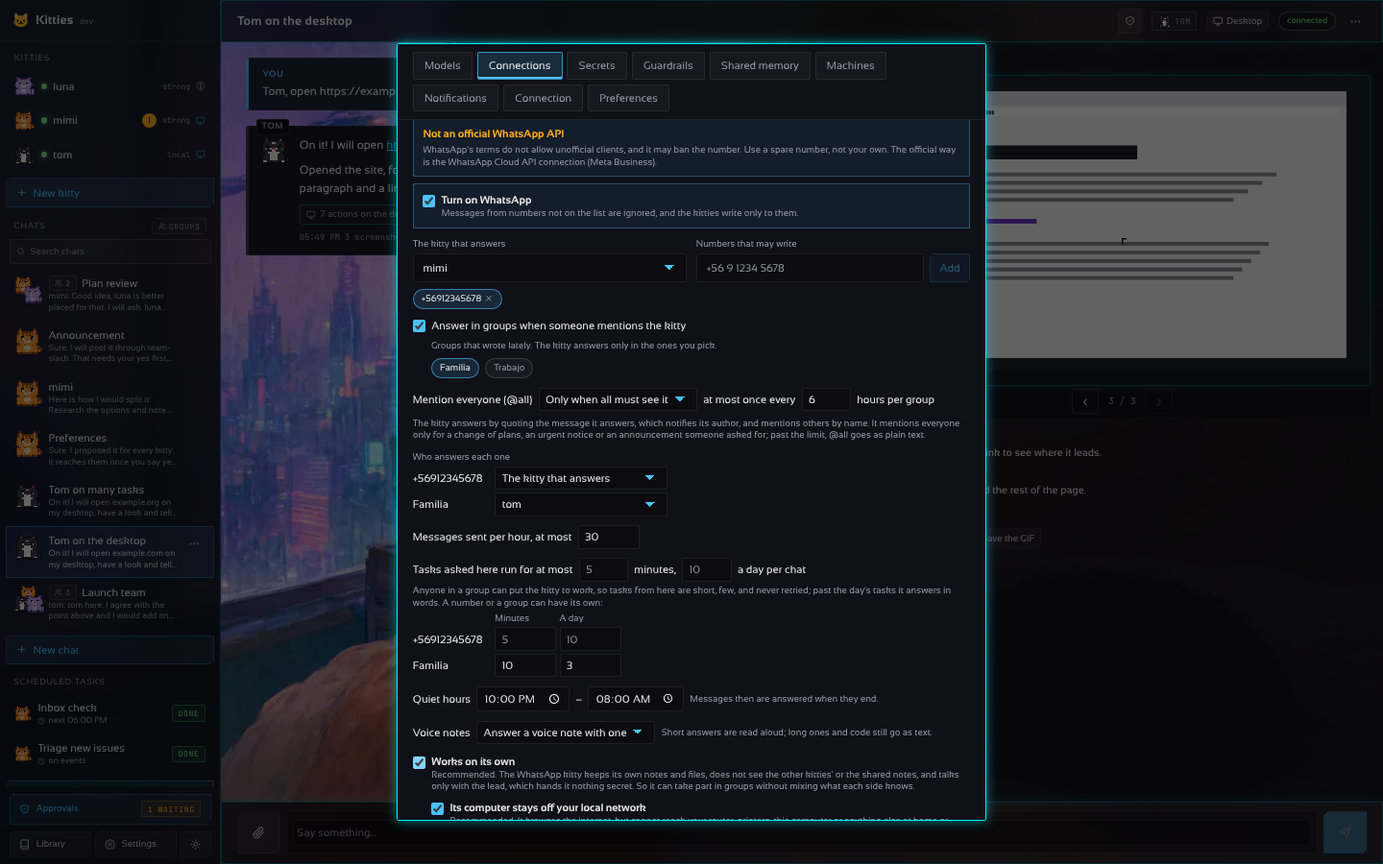
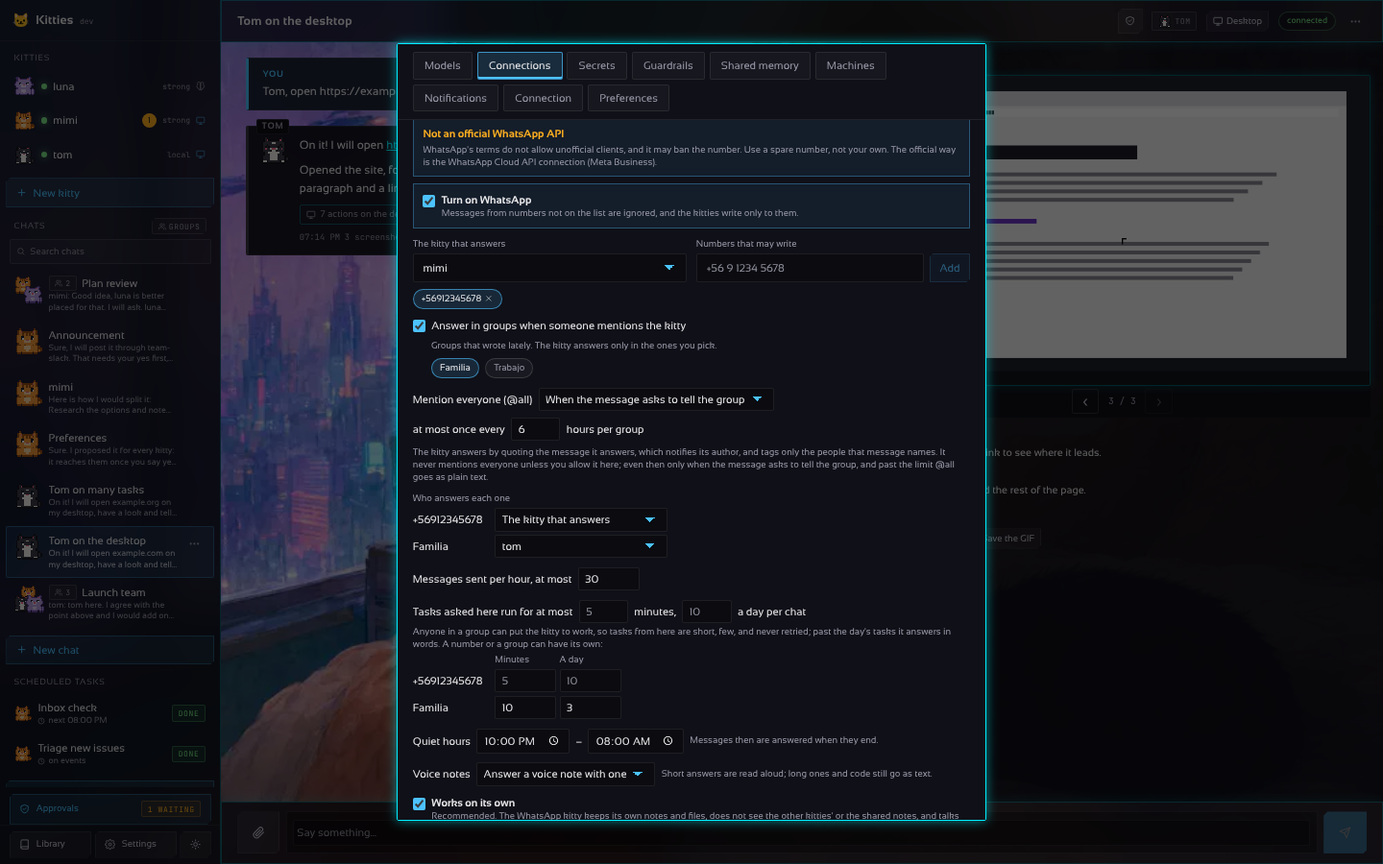
feat(whatsapp): never mention everyone in a group unless Settings allows it
mention_all is off by default; "asked" lets @all through only when the
message asks to tell the group. The first version's "needed" reads as off.

Claude-Session: https://claude.ai/code/session_017Z7sUbBDLHT9VRhdSe2XVy

diff --git a/site/es/index.html b/site/es/index.html
@@ -62,8 +62,8 @@ claude mcp add --transport http --scope user kitties http://&lt;gateway&gt;:7488
   --header "Authorization: Bearer &lt;MCP token&gt;"</code></pre></div></section>
 <section id="lead" class="wrap"><h2>Un kitty dirige a los demás</h2><p class="lead">Haz principal a un kitty y pasa a ser tu contacto principal: le pides algo, reparte el trabajo entre los kitties más indicados para cada parte, junta sus respuestas (varios kitties a la vez, mostrando quién trabaja y quién espera) y te entrega un solo reporte; resume los reportes con un clic o cada día a la hora que elijas; para una tarea larga puede darle a un kitty más rondas, tokens o tiempo, solo para esa tarea o de forma permanente, con topes y, si quieres, solo con tu aprobación. Lo que los demás tienen que contarte (metas cumplidas o trabadas, ayuda que necesitan, una acción que espera tu sí, el resumen diario) te llega a través de él, en su hilo Reportes (un reporte por chat, sin repetir la misma noticia), que tiene su propio lugar en la barra lateral después de los chats, y a su nombre. Los demás le hacen caso primero y le consultan sus dudas; él les responde, y a ti te pregunta solo lo que no puede decidir, para luego pasarles tu respuesta. Como un elefante con peces dorados: él guarda el panorama completo y cada kitty recibe un encargo que se entiende solo. Los chats nuevos, WhatsApp y <code>kitties chat</code> van a él si no eliges otro kitty. Un clic en el cajón del kitty, <code>lead: true</code> en el YAML, <code>kitties lead &lt;nombre&gt;</code>, o Claude por MCP.</p>
 <div class="duo"><figure><img src="../img/lead.webp" alt="La pestaña Equipo del kitty principal: Resumir reportes, Abrir reportes, Dejar de ser principal, los encargos por día y por kitty" loading="lazy" width="1440" height="900"><figcaption>El principal, en su cajón</figcaption></figure><figure><img src="../img/lead-reports.webp" alt="El hilo Reportes del principal: mimi terminó una meta" loading="lazy" width="1440" height="900"><figcaption>Las novedades de los demás, en su hilo Reportes</figcaption></figure></div></section>
-<section id="whatsapp" class="wrap"><h2>Conversa con tus kitties por WhatsApp</h2><p class="lead">Dales a los kitties un número propio: vincula un teléfono de repuesto como en WhatsApp Web escaneando un código QR en Ajustes. Las personas que pongas en la lista conversan con un kitty desde WhatsApp, y los kitties les responden, "escribiendo…" mientras piensan. Responden en los grupos que elijas cuando los nombran, leen fotos, documentos, stickers y ubicaciones, escuchan notas de voz y responden con las suyas (texto a voz, cada kitty con su propia voz, en todas las respuestas o solo a las notas de voz), devuelven los archivos que hacen y reaccionan con emojis. Cada número o grupo puede tener su propio kitty, con un límite por hora y un horario de silencio para cuidar el número; lo que el límite retiene queda sellado y listado en Ajustes, para reenviarlo cuando haya espacio. Viene desactivado, la lista parte vacía y la sesión queda sellada con la llave del vault. No es una API oficial y WhatsApp puede bloquear el número, así que la primera vez que lo activas una pantalla de bienvenida te pide aceptar ese riesgo; la vía oficial es la conexión WhatsApp Cloud API. Cada mensaje le llega al kitty con quién lo escribió (nombre y número) y, si es una respuesta, de quién es el mensaje que responde, así que las personas de un grupo nunca se confunden entre sí ni contigo; tú nombras a tus contactos en Ajustes, y mientras tanto el kitty usa el nombre que se pusieron en WhatsApp. El kitty de WhatsApp trabaja por su cuenta, como un principal junto al principal: sus propias notas (también sobre las personas y grupos con que habla, las únicas que usa ahí), sus propios archivos y su propio computador, para navegar por internet incluso en grupos (ahí con tareas cortas y pocas, ajustables por grupo, solo enlaces a páginas públicas y nunca tu red local), sin notas compartidas, sin chats ni trabajo con otros kitties, y solo habla con el principal, que no le pasa nada secreto; desde un grupo puede consultarle al principal, solo si tú lo apruebas, y la respuesta sale solo con un segundo sí (o siempre, en un grupo de confianza). Así puede participar en grupos sin mezclar lo que sabe cada lado. En un grupo responde citando el mensaje al que contesta, así a su autor le llega la notificación, y convierte <code>@Ana</code> en una mención real; a todos (<code>@todos</code>) los menciona solo cuando todos deben verlo, como máximo una vez cada pocas horas por grupo, o nunca si así lo eliges.</p>
-<div class="duo"><figure><img src="../img/whatsapp-welcome.webp" alt="La bienvenida de WhatsApp: no es una API oficial, un número de repuesto y una lista corta, la sesión sellada en el vault y el riesgo por aceptar" loading="lazy" width="1440" height="900"><figcaption>La primera vez: aceptar el riesgo</figcaption></figure><figure><img src="../img/whatsapp.webp" alt="Ajustes, WhatsApp conectado: notas de voz respondidas con notas de voz, el kitty de WhatsApp trabajando por su cuenta y los mensajes retenidos por el límite por hora" loading="lazy" width="1440" height="900"><figcaption>Notas de voz, un kitty por su cuenta y los mensajes que retuvo el límite por hora</figcaption></figure></div><div class="duo"><figure><img src="../img/whatsapp-senders.webp" alt="Un chat de grupo de WhatsApp: cada mensaje bajo el nombre y número de quien lo escribió, y una respuesta que muestra de quién es el mensaje que responde" loading="lazy" width="1440" height="900"><figcaption>Quién escribió cada mensaje, y a quién responde</figcaption></figure><figure><img src="../img/whatsapp-contacts.webp" alt="Ajustes, contactos de WhatsApp: el nombre con que el kitty lee a cada persona, con su número y el nombre que se pusieron" loading="lazy" width="1440" height="900"><figcaption>Nombra a tus contactos</figcaption></figure></div><figure class="one"><img src="../img/whatsapp-mentions.webp" alt="Ajustes, WhatsApp: mencionar a todos en un grupo solo cuando todos deben verlo, como máximo una vez cada pocas horas" loading="lazy" width="1440" height="900"><figcaption>@todos solo cuando hace falta</figcaption></figure></section>
+<section id="whatsapp" class="wrap"><h2>Conversa con tus kitties por WhatsApp</h2><p class="lead">Dales a los kitties un número propio: vincula un teléfono de repuesto como en WhatsApp Web escaneando un código QR en Ajustes. Las personas que pongas en la lista conversan con un kitty desde WhatsApp, y los kitties les responden, "escribiendo…" mientras piensan. Responden en los grupos que elijas cuando los nombran, leen fotos, documentos, stickers y ubicaciones, escuchan notas de voz y responden con las suyas (texto a voz, cada kitty con su propia voz, en todas las respuestas o solo a las notas de voz), devuelven los archivos que hacen y reaccionan con emojis. Cada número o grupo puede tener su propio kitty, con un límite por hora y un horario de silencio para cuidar el número; lo que el límite retiene queda sellado y listado en Ajustes, para reenviarlo cuando haya espacio. Viene desactivado, la lista parte vacía y la sesión queda sellada con la llave del vault. No es una API oficial y WhatsApp puede bloquear el número, así que la primera vez que lo activas una pantalla de bienvenida te pide aceptar ese riesgo; la vía oficial es la conexión WhatsApp Cloud API. Cada mensaje le llega al kitty con quién lo escribió (nombre y número) y, si es una respuesta, de quién es el mensaje que responde, así que las personas de un grupo nunca se confunden entre sí ni contigo; tú nombras a tus contactos en Ajustes, y mientras tanto el kitty usa el nombre que se pusieron en WhatsApp. El kitty de WhatsApp trabaja por su cuenta, como un principal junto al principal: sus propias notas (también sobre las personas y grupos con que habla, las únicas que usa ahí), sus propios archivos y su propio computador, para navegar por internet incluso en grupos (ahí con tareas cortas y pocas, ajustables por grupo, solo enlaces a páginas públicas y nunca tu red local), sin notas compartidas, sin chats ni trabajo con otros kitties, y solo habla con el principal, que no le pasa nada secreto; desde un grupo puede consultarle al principal, solo si tú lo apruebas, y la respuesta sale solo con un segundo sí (o siempre, en un grupo de confianza). Así puede participar en grupos sin mezclar lo que sabe cada lado. En un grupo responde citando el mensaje al que contesta, así a su autor le llega la notificación, y convierte <code>@Ana</code> en una mención real; solo etiqueta a quienes ese mensaje nombra, y nunca menciona a todos (<code>@todos</code>) salvo que lo permitas, y aun así solo cuando el mensaje pide avisar al grupo.</p>
+<div class="duo"><figure><img src="../img/whatsapp-welcome.webp" alt="La bienvenida de WhatsApp: no es una API oficial, un número de repuesto y una lista corta, la sesión sellada en el vault y el riesgo por aceptar" loading="lazy" width="1440" height="900"><figcaption>La primera vez: aceptar el riesgo</figcaption></figure><figure><img src="../img/whatsapp.webp" alt="Ajustes, WhatsApp conectado: notas de voz respondidas con notas de voz, el kitty de WhatsApp trabajando por su cuenta y los mensajes retenidos por el límite por hora" loading="lazy" width="1440" height="900"><figcaption>Notas de voz, un kitty por su cuenta y los mensajes que retuvo el límite por hora</figcaption></figure></div><div class="duo"><figure><img src="../img/whatsapp-senders.webp" alt="Un chat de grupo de WhatsApp: cada mensaje bajo el nombre y número de quien lo escribió, y una respuesta que muestra de quién es el mensaje que responde" loading="lazy" width="1440" height="900"><figcaption>Quién escribió cada mensaje, y a quién responde</figcaption></figure><figure><img src="../img/whatsapp-contacts.webp" alt="Ajustes, contactos de WhatsApp: el nombre con que el kitty lee a cada persona, con su número y el nombre que se pusieron" loading="lazy" width="1440" height="900"><figcaption>Nombra a tus contactos</figcaption></figure></div><figure class="one"><img src="../img/whatsapp-mentions.webp" alt="Ajustes, WhatsApp: mencionar a todos en un grupo nunca por defecto, o cuando el mensaje pide avisar al grupo" loading="lazy" width="1440" height="900"><figcaption>@todos apagado por defecto</figcaption></figure></section>
 <section id="guardrails" class="wrap"><h2>Protecciones cuando un kitty responde a otros</h2><p class="lead">Un kitty que conversa con tus contactos y grupos de WhatsApp, o en un chat que marques como público, queda protegido por defecto. Ahí no tiene escritorio, archivos, secretos guardados, notas sobre ti ni otros kitties, solo las conexiones que elijas. Todo lo que dice se revisa antes de salir: se quitan los secretos que Kitties conoce (claves, tokens, la bóveda), todo lo que parece una credencial, las rutas y direcciones internas y, salvo que lo desactives, los datos personales que la otra persona no entregó. Lo que escriben otros llega al modelo como dato, nunca como instrucción; un mensaje que intenta que el kitty rompa sus reglas recibe un no breve, y cada chat tiene un límite de mensajes por hora. Tus propios números conservan el kitty completo, y Ajustes muestra lo que las protecciones quitaron o negaron, nunca el secreto.</p>
 <figure class="one"><img src="../img/guardrails.webp" alt="Ajustes, Protecciones: activas por defecto, datos personales quitados, intentos sin respuesta, mensajes por hora, las conexiones que puede usar un kitty expuesto, tus números y el registro" loading="lazy" width="1440" height="900"><figcaption>Ajustes → Protecciones</figcaption></figure></section>
 <section class="wrap how"><h2>Elige un alma. Elige un cerebro. Y listo.</h2><ol><li><span>1</span><h3>Alma</h3><p>Una personalidad en un pequeño YAML. Tú la moldeas.</p></li><li><span>2</span><h3>Cerebro</h3><p>OpenAI, Anthropic, Gemini, Ollama, Groq, OpenRouter, DeepSeek, Qwen, Mistral, Copilot o cualquier servidor compatible.</p></li><li><span>3</span><h3>Cuerpo</h3><p>Un contenedor Docker con escritorio sin pantalla, navegador y las herramientas habituales.</p></li></ol></section>

diff --git a/site/index.html b/site/index.html
@@ -63,8 +63,8 @@ claude mcp add --transport http --scope user kitties http://&lt;gateway&gt;:7488
   --header "Authorization: Bearer &lt;MCP token&gt;"</code></pre></div></section>
 <section id="lead" class="wrap"><h2>One kitty leads the others</h2><p class="lead">Make one kitty the lead and it becomes your main contact: you ask it, it splits the work among the kitties best placed for each piece, gathers their answers (several kitties at the same time, showing who works and who waits) and gives you one report; it sums the reports up with one click or every day at the hour you choose; for a long task it can give a kitty more rounds, tokens or time, for that task alone or for good, within caps and, if you want, only with your yes. What the others have to tell you (goals done or stuck, help they need, an action waiting for a yes, the daily summary) reaches you through it, in its Reports thread (one report per chat, not the same news twice), which has its own place in the sidebar after the chats, and in its name. The others follow it first and ask it their doubts; it answers them, and asks you only what it cannot decide, then passes your answer on. Like an elephant with goldfish: it keeps the whole picture, and each kitty gets a task that stands on its own. New chats, WhatsApp and <code>kitties chat</code> go to it unless you pick another kitty. One click in a kitty’s drawer, <code>lead: true</code> in the YAML, <code>kitties lead &lt;name&gt;</code>, or Claude through MCP.</p>
 <div class="duo"><figure><img src="img/lead.webp" alt="The lead kitty's Team tab: Summarize reports, Open reports, Stop leading, the hand-overs per day and per kitty" loading="lazy" width="1440" height="900"><figcaption>The lead, in its drawer</figcaption></figure><figure><img src="img/lead-reports.webp" alt="The lead's Reports thread: mimi finished a goal" loading="lazy" width="1440" height="900"><figcaption>The others' news, in its Reports thread</figcaption></figure></div></section>
-<section id="whatsapp" class="wrap"><h2>Talk to your kitties on WhatsApp</h2><p class="lead">Give the kitties a number of their own: link a spare phone as on WhatsApp Web by scanning a QR code in Settings. The people you put on the list chat with a kitty from WhatsApp, and the kitties write back to them, "typing…" while they think. They answer in the groups you pick when mentioned, read pictures, documents, stickers and locations, hear voice notes and answer with their own (text to speech, each kitty with its own voice, for every answer or only to voice notes), send back the files they make and react with emoji. Each number or group can have its own kitty, with an hourly limit and quiet hours to keep the number safe; what the limit holds back is kept sealed and listed in Settings, to resend when there is room. Off by default, the list starts empty and the session is sealed with the vault's key. It is not an official API and WhatsApp may ban the number, so the first time you turn it on a welcome screen asks you to accept that risk; the official way is the WhatsApp Cloud API connection. Each message reaches the kitty with who wrote it (name and number) and, for a reply, whose message it answers, so the people of a group are never taken for one another or for you; you name your contacts in Settings, and until then the kitty uses the name they gave themselves on WhatsApp. The WhatsApp kitty works on its own, as a principal beside the lead: its own notes (including notes about the people and groups it talks with, the only ones it uses there), its own files and its own computer, to browse the internet even in groups (short and few tasks there, set per group, only links to public pages, and never your local network), no shared notes, no chats or work with other kitties, and only the lead to talk to, which hands it nothing secret; from a group it may ask the lead, only once you say yes, and its answer goes out only after a second yes (or always, in a group you trust). So it can take part in groups without mixing what each side knows. In a group it answers by quoting the message it answers, so its author is notified, and turns <code>@Ana</code> into a real mention; it mentions everyone (<code>@all</code>) only when all must see it, at most once every few hours per group, or never if you say so.</p>
-<div class="duo"><figure><img src="img/whatsapp-welcome.webp" alt="The WhatsApp welcome: not an official API, a spare number and a short list, the session sealed in the vault, and the risk to accept" loading="lazy" width="1440" height="900"><figcaption>The first time: accept the risk</figcaption></figure><figure><img src="img/whatsapp.webp" alt="Settings, WhatsApp connected: voice notes answered with voice notes, the WhatsApp kitty working on its own and the messages held by the hourly limit" loading="lazy" width="1440" height="900"><figcaption>Voice notes, a kitty on its own and the messages the hourly limit held</figcaption></figure></div><div class="duo"><figure><img src="img/whatsapp-senders.webp" alt="A WhatsApp group chat: each message under the name and number of who wrote it, and a reply showing whose message it answers" loading="lazy" width="1440" height="900"><figcaption>Who wrote each message, and whose message a reply answers</figcaption></figure><figure><img src="img/whatsapp-contacts.webp" alt="Settings, WhatsApp contacts: the name the kitty reads each person by, with their number and the name they gave themselves" loading="lazy" width="1440" height="900"><figcaption>Name your contacts</figcaption></figure></div><figure class="one"><img src="img/whatsapp-mentions.webp" alt="Settings, WhatsApp: mention everyone in a group only when all must see it, at most once every few hours" loading="lazy" width="1440" height="900"><figcaption>@all only when it is needed</figcaption></figure></section>
+<section id="whatsapp" class="wrap"><h2>Talk to your kitties on WhatsApp</h2><p class="lead">Give the kitties a number of their own: link a spare phone as on WhatsApp Web by scanning a QR code in Settings. The people you put on the list chat with a kitty from WhatsApp, and the kitties write back to them, "typing…" while they think. They answer in the groups you pick when mentioned, read pictures, documents, stickers and locations, hear voice notes and answer with their own (text to speech, each kitty with its own voice, for every answer or only to voice notes), send back the files they make and react with emoji. Each number or group can have its own kitty, with an hourly limit and quiet hours to keep the number safe; what the limit holds back is kept sealed and listed in Settings, to resend when there is room. Off by default, the list starts empty and the session is sealed with the vault's key. It is not an official API and WhatsApp may ban the number, so the first time you turn it on a welcome screen asks you to accept that risk; the official way is the WhatsApp Cloud API connection. Each message reaches the kitty with who wrote it (name and number) and, for a reply, whose message it answers, so the people of a group are never taken for one another or for you; you name your contacts in Settings, and until then the kitty uses the name they gave themselves on WhatsApp. The WhatsApp kitty works on its own, as a principal beside the lead: its own notes (including notes about the people and groups it talks with, the only ones it uses there), its own files and its own computer, to browse the internet even in groups (short and few tasks there, set per group, only links to public pages, and never your local network), no shared notes, no chats or work with other kitties, and only the lead to talk to, which hands it nothing secret; from a group it may ask the lead, only once you say yes, and its answer goes out only after a second yes (or always, in a group you trust). So it can take part in groups without mixing what each side knows. In a group it answers by quoting the message it answers, so its author is notified, and turns <code>@Ana</code> into a real mention; it tags only the people that message names, and never mentions everyone (<code>@all</code>) unless you allow it, and even then only when the message asks to tell the group.</p>
+<div class="duo"><figure><img src="img/whatsapp-welcome.webp" alt="The WhatsApp welcome: not an official API, a spare number and a short list, the session sealed in the vault, and the risk to accept" loading="lazy" width="1440" height="900"><figcaption>The first time: accept the risk</figcaption></figure><figure><img src="img/whatsapp.webp" alt="Settings, WhatsApp connected: voice notes answered with voice notes, the WhatsApp kitty working on its own and the messages held by the hourly limit" loading="lazy" width="1440" height="900"><figcaption>Voice notes, a kitty on its own and the messages the hourly limit held</figcaption></figure></div><div class="duo"><figure><img src="img/whatsapp-senders.webp" alt="A WhatsApp group chat: each message under the name and number of who wrote it, and a reply showing whose message it answers" loading="lazy" width="1440" height="900"><figcaption>Who wrote each message, and whose message a reply answers</figcaption></figure><figure><img src="img/whatsapp-contacts.webp" alt="Settings, WhatsApp contacts: the name the kitty reads each person by, with their number and the name they gave themselves" loading="lazy" width="1440" height="900"><figcaption>Name your contacts</figcaption></figure></div><figure class="one"><img src="img/whatsapp-mentions.webp" alt="Settings, WhatsApp: mention everyone in a group never by default, or when the message asks to tell the group" loading="lazy" width="1440" height="900"><figcaption>@all off by default</figcaption></figure></section>
 <section id="guardrails" class="wrap"><h2>Guardrails when a kitty answers others</h2><p class="lead">A kitty that talks to your WhatsApp contacts and groups, or in a chat you mark public, is guarded by default. There it has no desktop, files, saved secrets, notes about you or other kitties, only the connections you pick. Everything it says is checked before it leaves: the secrets Kitties knows (keys, tokens, the vault), anything shaped like a credential, internal paths and addresses and, unless you turn it off, personal data the other side did not give are taken out. What others write reaches the model as data, never as instructions; a message that tries to make the kitty break its rules gets a short no, and each chat has a limit of messages per hour. Your own numbers keep the whole kitty, and Settings shows what the guardrails took out or refused, never the secret itself.</p>
 <figure class="one"><img src="img/guardrails.webp" alt="Settings, Guardrails: on by default, personal data taken out, attempts not answered, messages per hour, the connections an exposed kitty may use, your own numbers and the record" loading="lazy" width="1440" height="900"><figcaption>Settings → Guardrails</figcaption></figure></section>
 <section class="wrap how"><h2>Pick a soul. Pick a brain. Press go.</h2><ol><li><span>1</span><h3>Soul</h3><p>A personality in a small YAML file. Yours to shape.</p></li><li><span>2</span><h3>Brain</h3><p>OpenAI, Anthropic, Gemini, Ollama, Groq, OpenRouter, DeepSeek, Qwen, Mistral, Copilot or any compatible server.</p></li><li><span>3</span><h3>Body</h3><p>A Docker container with a headless desktop, browser and the usual tools.</p></li></ol></section>

diff --git a/desktop/frontend/src/i18n/pt/settings.ts b/desktop/frontend/src/i18n/pt/settings.ts
@@ -409,12 +409,9 @@ const dict: Dictionary = {
   "These were not sent: more than {limit} messages went in an hour. Resend one when there is room, or raise the limit above. The list is kept sealed, so a restart does not lose it.":
     "Não foram enviadas: saíram mais de {limit} mensagens em uma hora. Reenvie uma quando houver espaço, ou aumente o limite acima. A lista fica selada, então um reinício não a perde.",
   "Mention everyone (@all)": "Mencionar todos (@todos)",
-  "Only when all must see it": "Só quando todos precisam ver",
   "at most once every": "no máximo uma vez a cada",
   "hours per group": "horas por grupo",
   "Hours between two mentions of everyone": "Horas entre duas menções a todos",
-  "The kitty answers by quoting the message it answers, which notifies its author, and mentions others by name. It mentions everyone only for a change of plans, an urgent notice or an announcement someone asked for; past the limit, @all goes as plain text.":
-    "O kitty responde citando a mensagem que responde, o que notifica o autor, e menciona os outros pelo nome. Menciona todos só numa mudança de planos, num aviso urgente ou num anúncio que alguém pediu; passado o limite, @todos vai como texto normal.",
   "Its computer stays off your local network": "O computador dele fica fora da sua rede local",
   "Recommended. It browses the internet, but cannot reach your router, printers, this computer or anything else at home or work. Applies the next time its computer starts.":
     "Recomendado. Navega na internet, mas não alcança o seu roteador, impressoras, este computador nem mais nada de casa ou do trabalho. Vale a partir da próxima vez que o computador dele iniciar.",
@@ -433,6 +430,9 @@ const dict: Dictionary = {
   Minutes: "Minutos",
   "A day": "Por dia",
   "Tasks a day for {who}": "Tarefas por dia para {who}",
+  "When the message asks to tell the group": "Quando a mensagem pede para avisar o grupo",
+  "The kitty answers by quoting the message it answers, which notifies its author, and tags only the people that message names. It never mentions everyone unless you allow it here; even then only when the message asks to tell the group, and past the limit @all goes as plain text.":
+    "O kitty responde citando a mensagem que responde, o que notifica o autor, e só marca quem essa mensagem nomeia. Nunca menciona todos a menos que você permita aqui; mesmo assim, só quando a mensagem pede para avisar o grupo, e passado o limite @todos vai como texto normal.",
   "Works on its own": "Trabalha por conta própria",
   "Recommended. The WhatsApp kitty keeps its own notes and files, does not see the other kitties' or the shared notes, and talks only with the lead, which hands it nothing secret. So it can take part in groups without mixing what each side knows.":
     "Recomendado. O kitty do WhatsApp guarda as suas próprias notas e arquivos, não vê os dos outros kitties nem as notas compartilhadas, e só fala com o principal, que não lhe passa nada secreto. Assim pode participar de grupos sem misturar o que cada lado sabe.",

diff --git a/desktop/frontend/src/i18n/es/settings.ts b/desktop/frontend/src/i18n/es/settings.ts
@@ -409,12 +409,9 @@ const dict: Dictionary = {
   "These were not sent: more than {limit} messages went in an hour. Resend one when there is room, or raise the limit above. The list is kept sealed, so a restart does not lose it.":
     "No se enviaron: salieron más de {limit} mensajes en una hora. Reenvía uno cuando haya espacio, o sube el límite arriba. La lista queda sellada, así que un reinicio no la pierde.",
   "Mention everyone (@all)": "Mencionar a todos (@todos)",
-  "Only when all must see it": "Solo cuando todos deben verlo",
   "at most once every": "como máximo una vez cada",
   "hours per group": "horas por grupo",
   "Hours between two mentions of everyone": "Horas entre dos menciones a todos",
-  "The kitty answers by quoting the message it answers, which notifies its author, and mentions others by name. It mentions everyone only for a change of plans, an urgent notice or an announcement someone asked for; past the limit, @all goes as plain text.":
-    "El kitty responde citando el mensaje al que contesta, lo que notifica a su autor, y menciona a otros por su nombre. Menciona a todos solo ante un cambio de planes, un aviso urgente o un anuncio que alguien pidió; pasado el límite, @todos va como texto normal.",
   "Its computer stays off your local network": "Su computador queda fuera de tu red local",
   "Recommended. It browses the internet, but cannot reach your router, printers, this computer or anything else at home or work. Applies the next time its computer starts.":
     "Recomendado. Navega por internet, pero no llega a tu router, impresoras, este computador ni nada más de tu casa u oficina. Se aplica la próxima vez que su computador arranque.",
@@ -433,6 +430,9 @@ const dict: Dictionary = {
   Minutes: "Minutos",
   "A day": "Al día",
   "Tasks a day for {who}": "Tareas al día para {who}",
+  "When the message asks to tell the group": "Cuando el mensaje pide avisar al grupo",
+  "The kitty answers by quoting the message it answers, which notifies its author, and tags only the people that message names. It never mentions everyone unless you allow it here; even then only when the message asks to tell the group, and past the limit @all goes as plain text.":
+    "El kitty responde citando el mensaje al que contesta, lo que notifica a su autor, y solo etiqueta a quienes ese mensaje nombra. Nunca menciona a todos salvo que lo permitas aquí; aun así, solo cuando el mensaje pide avisar al grupo, y pasado el límite @todos va como texto normal.",
   "Works on its own": "Trabaja por su cuenta",
   "Recommended. The WhatsApp kitty keeps its own notes and files, does not see the other kitties' or the shared notes, and talks only with the lead, which hands it nothing secret. So it can take part in groups without mixing what each side knows.":
     "Recomendado. El kitty de WhatsApp guarda sus propias notas y archivos, no ve los de los otros kitties ni las notas compartidas, y solo habla con el principal, que no le pasa nada secreto. Así puede participar en grupos sin mezclar lo que sabe cada lado.",

diff --git a/desktop/frontend/src/WhatsApp.tsx b/desktop/frontend/src/WhatsApp.tsx
@@ -37,7 +37,7 @@ function pick(s: WhatsAppStatus): WhatsAppSettings {
     quiet_to: s.quiet_to || "",
     voice: s.voice || "",
     share_with_team: !!s.share_with_team,
-    mention_all: s.mention_all === "off" ? "off" : "needed",
+    mention_all: s.mention_all === "asked" ? "asked" : "off",
     mention_all_hours: s.mention_all_hours || 0,
     local_network: !!s.local_network,
     task_minutes: s.task_minutes || 0,
@@ -59,7 +59,7 @@ function same(a: WhatsAppSettings, b: WhatsAppSettings): boolean {
     (a.quiet_to || "") === (b.quiet_to || "") &&
     (a.voice || "") === (b.voice || "") &&
     !!a.share_with_team === !!b.share_with_team &&
-    (a.mention_all || "needed") === (b.mention_all || "needed") &&
+    (a.mention_all || "off") === (b.mention_all || "off") &&
     (a.mention_all_hours || 0) === (b.mention_all_hours || 0) &&
     !!a.local_network === !!b.local_network &&
     (a.task_minutes || 0) === (b.task_minutes || 0) &&
@@ -329,7 +329,7 @@ export default function WhatsAppLink({ kitties }: { kitties: Kitty[] }) {
           {t("Mention everyone (@all)")}
           <select
             class="px-2 py-1 text-sm"
-            value={want.mention_all || "needed"}
+            value={want.mention_all || "off"}
             disabled={disabled}
             onChange={(e) =>
               setWant({
@@ -339,10 +339,10 @@ export default function WhatsAppLink({ kitties }: { kitties: Kitty[] }) {
               })
             }
           >
-            <option value="needed">{t("Only when all must see it")}</option>
             <option value="off">{t("Never")}</option>
+            <option value="asked">{t("When the message asks to tell the group")}</option>
           </select>
-          {want.mention_all !== "off" && (
+          {want.mention_all === "asked" && (
             <label class="flex items-center gap-2">
               {t("at most once every")}
               <input
@@ -369,7 +369,7 @@ export default function WhatsAppLink({ kitties }: { kitties: Kitty[] }) {
           )}
           <span class="block w-full text-xs text-[var(--t3)]">
             {t(
-              "The kitty answers by quoting the message it answers, which notifies its author, and mentions others by name. It mentions everyone only for a change of plans, an urgent notice or an announcement someone asked for; past the limit, @all goes as plain text.",
+              "The kitty answers by quoting the message it answers, which notifies its author, and tags only the people that message names. It never mentions everyone unless you allow it here; even then only when the message asks to tell the group, and past the limit @all goes as plain text.",
             )}
           </span>
         </div>

diff --git a/desktop/frontend/e2e/screens.spec.ts b/desktop/frontend/e2e/screens.spec.ts
@@ -3689,7 +3689,8 @@ test("Settings: WhatsApp welcomes with the risk, links with a QR code and keeps 
   await expect(box.getByTestId("whatsapp-group").first()).toHaveAttribute("aria-pressed", "true");
   // Everyone (@all) is mentioned only when all must see it, at most once every few hours.
   const mentionAll = box.getByTestId("whatsapp-mention-all");
-  await expect(mentionAll.locator("select")).toHaveValue("needed");
+  await expect(mentionAll.locator("select")).toHaveValue("off");
+  await mentionAll.locator("select").selectOption("asked");
   await mentionAll.getByLabel("Hours between two mentions of everyone").fill("6");
   await mentionAll.evaluate((el) => el.scrollIntoView({ block: "center" }));
   await shot(page, "86-whatsapp-mention-all");
@@ -3737,7 +3738,7 @@ test("Settings: WhatsApp welcomes with the risk, links with a QR code and keeps 
       quiet_to: "08:00",
       voice: "mirror",
       share_with_team: false,
-      mention_all: "needed",
+      mention_all: "asked",
       mention_all_hours: 6,
       local_network: false,
       task_minutes: 0,

diff --git a/desktop/frontend/src/api.ts b/desktop/frontend/src/api.ts
@@ -1668,10 +1668,10 @@ export type WhatsAppSettings = {
   // share_with_team lets the WhatsApp kitties work with the others; by default (false) they work
   // on their own: no shared notes or files, no chats or work with other kitties, only the lead.
   share_with_team?: boolean;
-  // mention_all is when a kitty may @mention every member of a group: "needed" (only when all
-  // of it must see a message, the default) or "off" (never); mention_all_hours is the least time
+  // mention_all is when a kitty may @mention every member of a group: "off" (never, the default)
+  // or "asked" (when the message it answers asks to tell the group); mention_all_hours is the least time
   // between two such mentions in a group (0: 4).
-  mention_all?: "needed" | "off";
+  mention_all?: "off" | "asked";
   mention_all_hours?: number;
   // local_network lets the computer of a kitty that works on its own reach the local network;
   // by default (false) it reaches only the internet.

diff --git a/internal/whatsapp/mention.go b/internal/whatsapp/mention.go
@@ -12,12 +12,13 @@ import (
 
 // The ways the kitties may @mention every member of a group (Settings.MentionAll).
 const (
-	// MentionAllNeeded (the default, also "") lets a kitty mention everyone only when all of the
-	// group must see a message (a change of plans, an urgent notice, an announcement someone asked
-	// for), at most once every MentionAllHours in each group.
-	MentionAllNeeded = "needed"
-	// MentionAllOff never mentions everyone: "@all" goes as plain text.
+	// MentionAllOff (the default, also "") never mentions everyone: "@all" goes as plain text.
+	// The "needed" of the first version reads as off too: the groups did not want it.
 	MentionAllOff = "off"
+	// MentionAllAsked lets a kitty mention everyone when the message it answers asks to tell the
+	// group (or it sends an announcement on its own), at most once every MentionAllHours in each
+	// group.
+	MentionAllAsked = "asked"
 )
 
 // DefaultMentionAllHours is the least time between two mentions of everyone in a group.
@@ -46,15 +47,15 @@ type etiquetter interface {
 	SetEtiquette(id, text string) error
 }
 
-// mentionAllMode is a MentionAll of Settings: MentionAllNeeded for "" too.
+// mentionAllMode is a MentionAll of Settings: MentionAllOff for "" too.
 func mentionAllMode(v string) (string, error) {
 	switch v = strings.ToLower(strings.TrimSpace(v)); v {
-	case "", MentionAllNeeded:
-		return MentionAllNeeded, nil
-	case MentionAllOff, "never":
+	case "", MentionAllOff, "never", "needed":
 		return MentionAllOff, nil
+	case MentionAllAsked:
+		return MentionAllAsked, nil
 	}
-	return "", fmt.Errorf("mention_all is %q (only when all of the group must see it) or %q (never)", MentionAllNeeded, MentionAllOff)
+	return "", fmt.Errorf("mention_all is %q (never, the default) or %q (when the message asks to tell the group)", MentionAllOff, MentionAllAsked)
 }
 
 // mentionAllHours is a MentionAllHours of Settings (0 is DefaultMentionAllHours).
@@ -239,7 +240,7 @@ func (b *Bridge) memberNamedLocked(group, name string) (string, bool) {
 // everyoneLocked reports whether a kitty may mention every member of group now, and takes the
 // turn when it may: never with MentionAll off, and once every MentionAllHours in a group.
 func (b *Bridge) everyoneLocked(group string) (bool, string) {
-	if b.set.MentionAll == MentionAllOff {
+	if b.set.MentionAll != MentionAllAsked {
 		return false, "mentioning everyone is off in Settings"
 	}
 	gap := time.Duration(b.mentionGapLocked()) * time.Hour
@@ -318,7 +319,7 @@ func (b *Bridge) etiquette(group string) string {
 		"Do not @mention anyone else either, unless the message you answer asks you to call, ask or tell a specific person; " +
 		"then write @ and their name (@Ana). Never @mention someone you only talk about, greet or quote: write their name without @. " +
 		"A tag of someone the message did not involve goes as their plain name. "
-	if mode == MentionAllOff {
+	if mode != MentionAllAsked {
 		return out + "Never mention everyone (@all): it is off here."
 	}
 	return out + "Write @all only when the message you answer asks you to tell the whole group (a change of plans, an urgent notice, " +

diff --git a/internal/whatsapp/mention_test.go b/internal/whatsapp/mention_test.go
@@ -75,7 +75,7 @@ func (r *rig) ask(t *testing.T, f *fakeClient, id, text string, n int) string {
 // A kitty's answer in a group @mentions the members it names (by name or number) so WhatsApp
 // notifies them, and everyone only when it writes @all and the limit lets it.
 func TestGroupMentions(t *testing.T) {
-	r, f := groupRig(t, Settings{})
+	r, f := groupRig(t, Settings{MentionAll: MentionAllAsked})
 	clock := time.Date(2026, 11, 9, 12, 0, 0, 0, time.UTC)
 	r.b.mu.Lock()
 	r.b.now = func() time.Time { return clock }
@@ -154,7 +154,7 @@ func TestGroupEtiquette(t *testing.T) {
 	ec := &etiquetteChats{fakeChats: r.chats, manners: map[string]string{}}
 	r.b.opt.Chats = ec
 	r.b.Start(context.Background())
-	if err := r.b.Apply(Settings{Enabled: true, Kitty: "mimi", Groups: true, AllowGroups: []string{familia}, MentionAllHours: 6}, true); err != nil {
+	if err := r.b.Apply(Settings{Enabled: true, Kitty: "mimi", Groups: true, AllowGroups: []string{familia}, MentionAll: MentionAllAsked, MentionAllHours: 6}, true); err != nil {
 		t.Fatal(err)
 	}
 	f := r.next(t)
@@ -177,16 +177,23 @@ func TestMentionSettings(t *testing.T) {
 	if err := r.b.Apply(Settings{Kitty: "mimi", MentionAllHours: MaxMentionAllHours + 1}, true); err == nil {
 		t.Fatal("a gap too long was taken")
 	}
-	if err := r.b.Apply(Settings{Kitty: "mimi", MentionAll: "Never"}, true); err != nil {
+	if err := r.b.Apply(Settings{Kitty: "mimi", MentionAll: "Asked"}, true); err != nil {
+		t.Fatal(err)
+	}
+	if st := r.b.Status(); st.MentionAll != MentionAllAsked {
+		t.Fatalf("mode = %q", st.MentionAll)
+	}
+	// The first version's "needed" reads as off.
+	if err := r.b.Apply(Settings{Kitty: "mimi", MentionAll: "needed"}, true); err != nil {
 		t.Fatal(err)
 	}
 	if st := r.b.Status(); st.MentionAll != MentionAllOff {
-		t.Fatalf("mode = %q", st.MentionAll)
+		t.Fatalf("legacy mode = %q", st.MentionAll)
 	}
 	if err := r.b.Apply(Settings{Kitty: "mimi"}, true); err != nil {
 		t.Fatal(err)
 	}
-	if st := r.b.Status(); st.MentionAll != MentionAllNeeded {
+	if st := r.b.Status(); st.MentionAll != MentionAllOff {
 		t.Fatalf("default mode = %q", st.MentionAll)
 	}
 }

diff --git a/internal/whatsapp/whatsapp.go b/internal/whatsapp/whatsapp.go
@@ -203,8 +203,8 @@ type Settings struct {
 	// default (false) they work on their own: no shared notes, no other kitty's files, no chats or
 	// work with other kitties, and only the lead to talk to (chat.Service.SetIndependent).
 	ShareWithTeam bool `json:"share_with_team,omitempty"`
-	// MentionAll is when a kitty may @mention every member of a group: MentionAllNeeded (only
-	// when all of it must see a message, the default) or MentionAllOff (never).
+	// MentionAll is when a kitty may @mention every member of a group: MentionAllOff (never, the
+	// default) or MentionAllAsked (when the message it answers asks to tell the group).
 	MentionAll string `json:"mention_all,omitempty"`
 	// MentionAllHours is the least time between two mentions of everyone in a group (0 is
 	// DefaultMentionAllHours).

diff --git a/internal/config/config.go b/internal/config/config.go
@@ -93,8 +93,8 @@ type WhatsApp struct {
 	// ShareWithTeam lets the kitties that answer on WhatsApp work with the others; by default they
 	// work on their own and talk only with the lead.
 	ShareWithTeam bool `yaml:"share_with_team"`
-	// MentionAll is when a kitty may @mention every member of a group: needed (only when all of
-	// it must see a message, the default) or off. MentionAllHours is the least time between two
+	// MentionAll is when a kitty may @mention every member of a group: off (never, the default)
+	// or asked (when the message it answers asks to tell the group). MentionAllHours is the least time between two
 	// such mentions in a group (0: 4).
 	MentionAll      string `yaml:"mention_all"`
 	MentionAllHours int    `yaml:"mention_all_hours"`

diff --git a/docs/WHATSAPP.es.md b/docs/WHATSAPP.es.md
@@ -121,16 +121,16 @@ olvida la sesión.
   mensaje como nombres. Una mención real notifica aunque el grupo esté silenciado; un nombre que
   comparten dos miembros, o alguien que nunca escribió ahí, no se adivina (y nunca se muestra al
   grupo un número de otro chat). Un mensaje que un kitty envía por su cuenta (el conector
-  `whatsapp`) puede mencionar a cualquier miembro. A **todos** (`@todos`, `@all`, `@everyone`) se
-  les menciona solo **cuando el mensaje que responde pide avisar al grupo** (o el kitty envía un
-  anuncio por su cuenta), nunca en una respuesta normal, y **como máximo una vez cada 4 horas por
-  grupo** (Ajustes › Conexiones › WhatsApp › **Mencionar a todos**: *Solo cuando todos deben verlo*
-  o *Nunca*, y las horas). Pasado el límite, o si está apagado, `@todos` va como texto normal y al
-  kitty se le dice por qué. En los grupos que ocultan números (los LID de WhatsApp), quién escribió,
+  `whatsapp`) puede mencionar a cualquier miembro. A **todos** (`@todos`, `@all`, `@everyone`) **nunca**
+  se les menciona por defecto: `@todos` va como texto normal. Ajustes › Conexiones › WhatsApp ›
+  **Mencionar a todos** › *Cuando el mensaje pide avisar al grupo* lo permite, solo cuando el
+  mensaje que responde pide avisar al grupo (o el kitty envía un anuncio por su cuenta), nunca en
+  una respuesta normal, y **como máximo una vez cada 4 horas por grupo** (las horas también se
+  eligen ahí). Pasado el límite, `@todos` va como texto normal y al kitty se le dice por qué. En los grupos que ocultan números (los LID de WhatsApp), quién escribió,
   de quién es el mensaje que cita una respuesta y a quién menciona se leen de los miembros del
   grupo cuando el teléfono aún no dio sus números, así el kitty siempre sabe quién escribe.
 
-  ![Mencionar a todos en Ajustes: solo cuando todos deben verlo, como máximo una vez cada pocas horas](screenshots/86-whatsapp-mention-all.png)
+  ![Mencionar a todos en Ajustes: nunca por defecto, o cuando el mensaje pide avisar al grupo, como máximo una vez cada pocas horas](screenshots/86-whatsapp-mention-all.png)
 - **Fotos, videos, documentos y audios.** Le llegan al kitty como archivos del chat (hasta 25 MB
   cada uno), con su pie de foto como texto. Una **nota de voz** se pasa a texto con la API de voz
   (Whisper) de un perfil `openai` o `groq` con llave; sin uno llega como archivo de audio.
@@ -258,7 +258,7 @@ whatsapp:
   speak: ""                      # el perfil openai que lee las respuestas; vacío: el primero; off: ninguno
   speak_voice: nova              # su voz (alloy, nova, shimmer, …); vacío: alloy
   share_with_team: false         # true: los kitties de WhatsApp trabajan con los demás (por defecto: por su cuenta)
-  mention_all: needed            # @todos en grupos: needed (solo cuando todos deben verlo, por defecto) u off
+  mention_all: "off"             # @todos en grupos: off (nunca, por defecto) o asked (cuando el mensaje pide avisar al grupo)
   mention_all_hours: 4           # horas mínimas entre dos menciones a todos en un grupo (0: 4)
   local_network: false           # true: su computador puede llegar a la red local (por defecto: solo internet)
   task_minutes: 5                # cuánto puede durar una tarea pedida por WhatsApp (0: 5, máximo 60)
